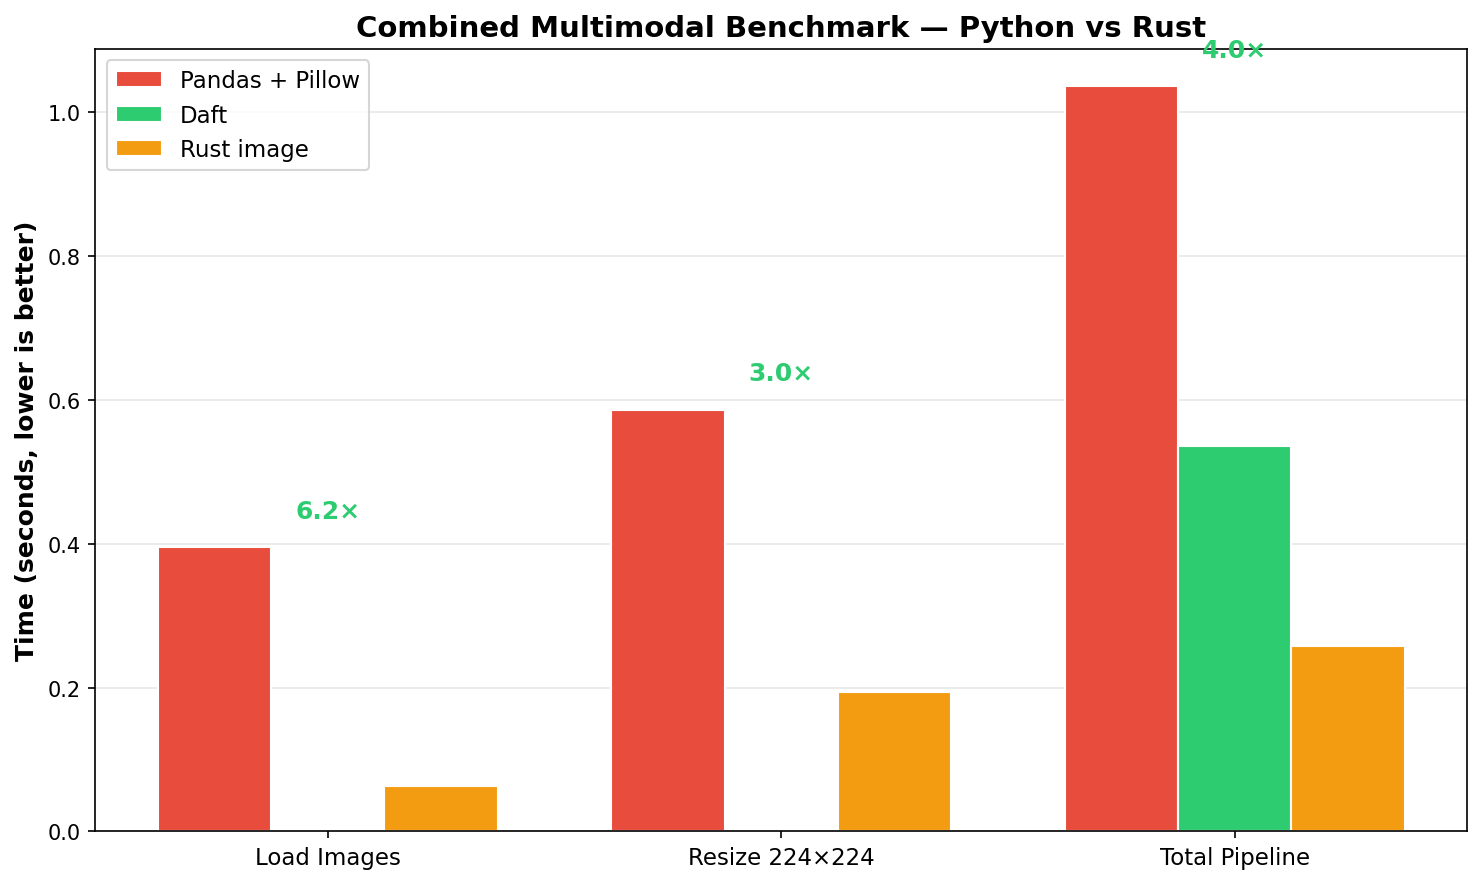
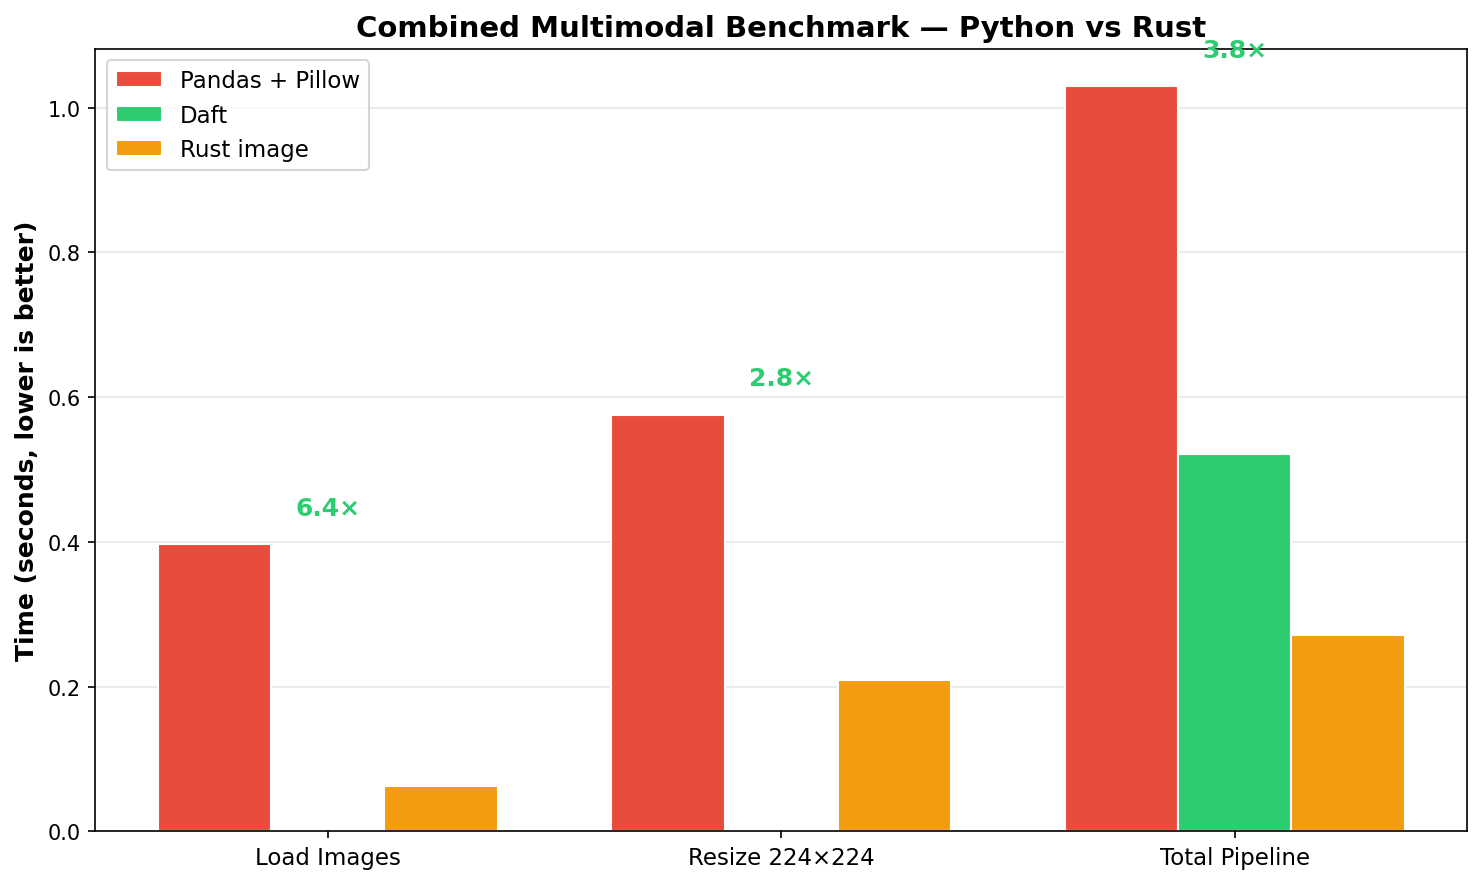
fix

diff --git a/src/engine_comparison/benchmarks/tabular.py b/src/engine_comparison/benchmarks/tabular.py
@@ -36,6 +36,7 @@ import matplotlib.pyplot as plt
 import numpy as np
 import pandas as pd
 import polars as pl
+import pyarrow.csv as pcsv
 import pyarrow.parquet as pq
 from daft import col
 from datafusion import SessionContext
@@ -147,43 +148,33 @@ def bench_polars(trips_path: str, zones_path: str, n_runs: int) -> dict:
     # Read
     results["Read Parquet"] = timeit(lambda: pl.read_parquet(trips_path), n_runs)
 
-    # Filter (lazy — predicate pushdown into Parquet reader)
+    # Preload data for fair in-memory comparison
+    df = pl.read_parquet(trips_path)
+    zones = pl.read_csv(zones_path)
+
+    # Filter (in-memory)
     results["Filter"] = timeit(
-        lambda: (
-            pl.scan_parquet(trips_path)
-            .filter((pl.col("trip_distance") > 5.0) & (pl.col("fare_amount") > 30.0))
-            .collect()
+        lambda: df.filter(
+            (pl.col("trip_distance") > 5.0) & (pl.col("fare_amount") > 30.0)
         ),
         n_runs,
     )
 
-    # GroupBy + Agg (lazy)
+    # GroupBy + Agg (in-memory)
     results["GroupBy + Agg"] = timeit(
-        lambda: (
-            pl.scan_parquet(trips_path)
-            .group_by("payment_type")
-            .agg(
-                pl.len().alias("trip_count"),
-                pl.col("total_amount").sum().alias("total_revenue"),
-                pl.col("fare_amount").mean().alias("avg_fare"),
-                pl.col("tip_amount").mean().alias("avg_tip"),
-            )
-            .collect()
+        lambda: df.group_by("payment_type").agg(
+            pl.len().alias("trip_count"),
+            pl.col("total_amount").sum().alias("total_revenue"),
+            pl.col("fare_amount").mean().alias("avg_fare"),
+            pl.col("tip_amount").mean().alias("avg_tip"),
         ),
         n_runs,
     )
 
-    # Join (lazy scan both sides)
+    # Join (in-memory)
     results["Join"] = timeit(
-        lambda: (
-            pl.scan_parquet(trips_path)
-            .join(
-                pl.scan_csv(zones_path),
-                left_on="PULocationID",
-                right_on="LocationID",
-                how="inner",
-            )
-            .collect()
+        lambda: df.join(
+            zones, left_on="PULocationID", right_on="LocationID", how="inner"
         ),
         n_runs,
     )
@@ -231,10 +222,15 @@ def bench_datafusion(trips_path: str, zones_path: str, n_runs: int) -> dict:
 
     results["Read Parquet"] = timeit(df_read, n_runs)
 
-    # Filter
+    # Preload data for fair in-memory comparison
+    ctx = SessionContext()
+    trips_table = pq.read_table(trips_path)
+    zones_table = pcsv.read_csv(zones_path)
+    ctx.register_record_batches("trips", [trips_table.to_batches()])
+    ctx.register_record_batches("zones", [zones_table.to_batches()])
+
+    # Filter (in-memory)
     def df_filter():
-        ctx = SessionContext()
-        ctx.register_parquet("trips", trips_path)
         ctx.sql("""
             SELECT *
             FROM trips
@@ -243,10 +239,8 @@ def bench_datafusion(trips_path: str, zones_path: str, n_runs: int) -> dict:
 
     results["Filter"] = timeit(df_filter, n_runs)
 
-    # GroupBy + Agg
+    # GroupBy + Agg (in-memory)
     def df_groupby():
-        ctx = SessionContext()
-        ctx.register_parquet("trips", trips_path)
         ctx.sql("""
             SELECT payment_type,
                    COUNT(*)            AS trip_count,
@@ -259,11 +253,8 @@ def bench_datafusion(trips_path: str, zones_path: str, n_runs: int) -> dict:
 
     results["GroupBy + Agg"] = timeit(df_groupby, n_runs)
 
-    # Join
+    # Join (in-memory)
     def df_join():
-        ctx = SessionContext()
-        ctx.register_parquet("trips", trips_path)
-        ctx.register_csv("zones", zones_path)
         ctx.sql("""
             SELECT t.*, z."Borough", z."Zone"
             FROM trips t
@@ -308,22 +299,24 @@ def bench_daft(trips_path: str, zones_path: str, n_runs: int) -> dict:
         lambda: daft.read_parquet(trips_path).collect(), n_runs
     )
 
-    # Filter
+    # Preload data for fair in-memory comparison
+    df = daft.read_parquet(trips_path).collect()
+    zones = daft.read_csv(zones_path).collect()
+
+    # Filter (in-memory)
     results["Filter"] = timeit(
         lambda: (
-            daft.read_parquet(trips_path)
-            .where(col("trip_distance") > 5.0)
+            df.where(col("trip_distance") > 5.0)
             .where(col("fare_amount") > 30.0)
             .collect()
         ),
         n_runs,
     )
 
-    # GroupBy + Agg
+    # GroupBy + Agg (in-memory)
     results["GroupBy + Agg"] = timeit(
         lambda: (
-            daft.read_parquet(trips_path)
-            .groupby("payment_type")
+            df.groupby("payment_type")
             .agg(
                 col("total_amount").sum().alias("total_revenue"),
                 col("fare_amount").mean().alias("avg_fare"),
@@ -335,17 +328,9 @@ def bench_daft(trips_path: str, zones_path: str, n_runs: int) -> dict:
         n_runs,
     )
 
-    # Join
+    # Join (in-memory)
     results["Join"] = timeit(
-        lambda: (
-            daft.read_parquet(trips_path)
-            .join(
-                daft.read_csv(zones_path),
-                left_on="PULocationID",
-                right_on="LocationID",
-            )
-            .collect()
-        ),
+        lambda: df.join(zones, left_on="PULocationID", right_on="LocationID").collect(),
         n_runs,
     )
 

diff --git a/rust_benchmark/src/main.rs b/rust_benchmark/src/main.rs
@@ -66,13 +66,22 @@ fn bench_tabular(trips_path: &str, zones_path: &str, n_runs: usize) -> HashMap<S
         ),
     );
 
-    // Filter: long-distance, high-fare trips
+    // Preload data for fair in-memory comparison
+    let df = LazyFrame::scan_parquet(trips_path, Default::default())
+        .unwrap()
+        .collect()
+        .unwrap();
+    let zones = LazyCsvReader::new(zones_path).finish().unwrap().collect().unwrap();
+
+    // Filter: long-distance, high-fare trips (in-memory)
+    let df_clone = df.clone();
     results.insert(
         "Filter".to_string(),
         timeit(
             || {
-                LazyFrame::scan_parquet(trips_path, Default::default())
-                    .unwrap()
+                df_clone
+                    .clone()
+                    .lazy()
                     .filter(
                         col("trip_distance")
                             .gt(lit(5.0))
@@ -85,13 +94,15 @@ fn bench_tabular(trips_path: &str, zones_path: &str, n_runs: usize) -> HashMap<S
         ),
     );
 
-    // GroupBy + Agg: revenue by payment type
+    // GroupBy + Agg: revenue by payment type (in-memory)
+    let df_clone = df.clone();
     results.insert(
         "GroupBy + Agg".to_string(),
         timeit(
             || {
-                LazyFrame::scan_parquet(trips_path, Default::default())
-                    .unwrap()
+                df_clone
+                    .clone()
+                    .lazy()
                     .group_by([col("payment_type")])
                     .agg([
                         col("VendorID").count().alias("trip_count"),
@@ -106,16 +117,18 @@ fn bench_tabular(trips_path: &str, zones_path: &str, n_runs: usize) -> HashMap<S
         ),
     );
 
-    // Join: enrich with pickup zone names
+    // Join: enrich with pickup zone names (in-memory)
+    let df_clone = df.clone();
+    let zones_clone = zones.clone();
     results.insert(
         "Join".to_string(),
         timeit(
             || {
-                let trips = LazyFrame::scan_parquet(trips_path, Default::default()).unwrap();
-                let zones = LazyCsvReader::new(zones_path).finish().unwrap();
-                trips
+                df_clone
+                    .clone()
+                    .lazy()
                     .join(
-                        zones,
+                        zones_clone.clone().lazy(),
                         [col("PULocationID")],
                         [col("LocationID")],
                         JoinArgs::new(JoinType::Inner),
@@ -127,7 +140,7 @@ fn bench_tabular(trips_path: &str, zones_path: &str, n_runs: usize) -> HashMap<S
         ),
     );
 
-    // ETL Pipeline: filter → join → groupby → sort → limit
+    // ETL Pipeline: filter → join → groupby → sort → limit (lazy from disk)
     results.insert(
         "ETL Pipeline".to_string(),
         timeit(
